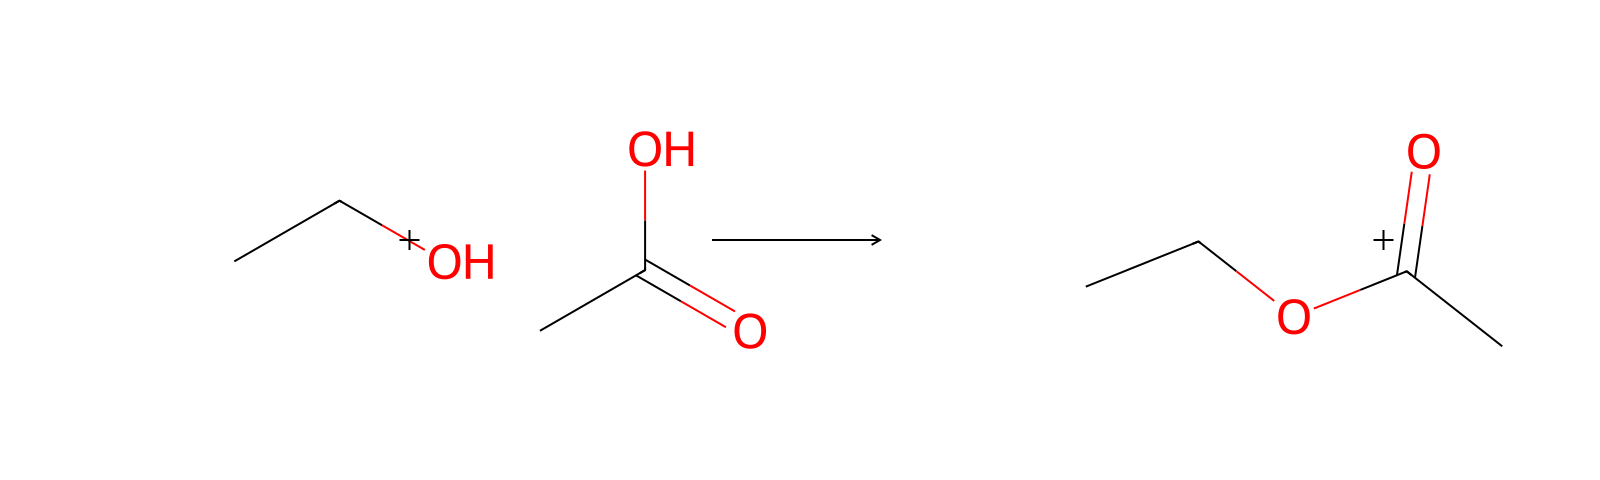
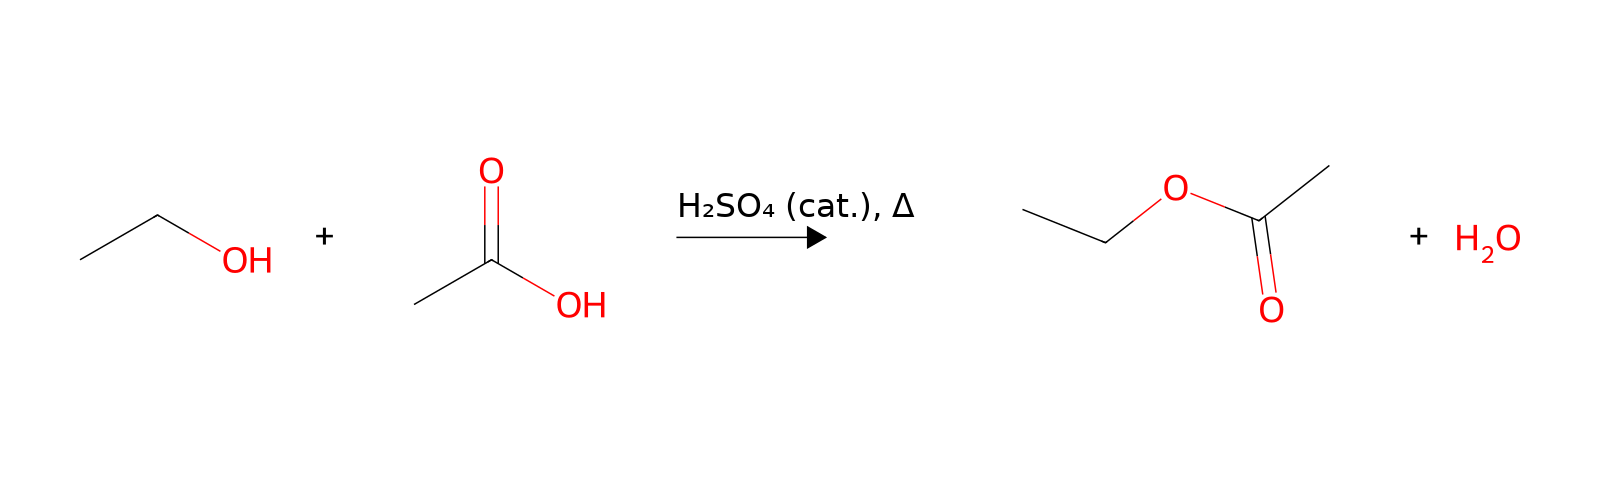
feat: english user-facing labels + refreshed README example images
All user-visible output strings are English now (international audience;
the free-form title/name params stay localizable): spectrum plot titles
and axis labels, and mechanism template names and step labels.

README: regenerated fischer-esterification.png with the fixed reaction
compositor (H2O present, conditions above the arrow) and added a
schematic IR spectrum example from generate_spectrum.

diff --git a/chemdraw_tool/templates/substitution.py b/chemdraw_tool/templates/substitution.py
@@ -5,18 +5,18 @@ from chemdraw_tool.templates import register
 
 SN2_TEMPLATE = MechanismTemplate(
     id="sn2",
-    name="Nucleophile Substitution (SN2)",
+    name="Nucleophilic Substitution (SN2)",
     category="substitution",
     substrate_pattern="[C:1][F,Cl,Br,I:2]",
     nucleophile_pattern="[O,N,S:3]",
     steps=[
         MechanismStep(
-            label="Edukte",
+            label="Reactants",
             molecules=["[OH-:3]", "[CH3:1][Br:2]"],
             arrows=[],
         ),
         MechanismStep(
-            label="Rückseitenangriff (Übergangszustand)",
+            label="Backside attack (transition state)",
             molecules=["[O-:3].[CH3:1].[Br-:2]"],
             arrows=[
                 CurvedArrow(
@@ -34,7 +34,7 @@ SN2_TEMPLATE = MechanismTemplate(
             partial_bonds=[(3, 1), (1, 2)],
         ),
         MechanismStep(
-            label="Produkte",
+            label="Products",
             molecules=["[OH:3][CH3:1]", "[Br-:2]"],
             arrows=[],
         ),
@@ -43,18 +43,18 @@ SN2_TEMPLATE = MechanismTemplate(
 
 SN1_TEMPLATE = MechanismTemplate(
     id="sn1",
-    name="Nucleophile Substitution (SN1)",
+    name="Nucleophilic Substitution (SN1)",
     category="substitution",
     substrate_pattern="[CX4:1]([#6])([#6])[F,Cl,Br,I:2]",
     nucleophile_pattern="[O,N,S:3]",
     steps=[
         MechanismStep(
-            label="Edukte",
+            label="Reactants",
             molecules=["[C:1]([CH3])([CH3])[Br:2]", "[OH2:3]"],
             arrows=[],
         ),
         MechanismStep(
-            label="Abgangsgruppe tritt aus",
+            label="Leaving group departs",
             molecules=["[C:1]([CH3])([CH3])[Br:2]"],
             arrows=[
                 CurvedArrow(
@@ -65,12 +65,12 @@ SN1_TEMPLATE = MechanismTemplate(
             ],
         ),
         MechanismStep(
-            label="Carbokation (Intermediat)",
+            label="Carbocation (intermediate)",
             molecules=["[C+:1]([CH3])([CH3])", "[Br-:2]"],
             arrows=[],
         ),
         MechanismStep(
-            label="Nucleophiler Angriff",
+            label="Nucleophilic attack",
             molecules=["[C+:1]([CH3])([CH3])", "[OH2:3]"],
             arrows=[
                 CurvedArrow(
@@ -81,7 +81,7 @@ SN1_TEMPLATE = MechanismTemplate(
             ],
         ),
         MechanismStep(
-            label="Produkt (nach Deprotonierung)",
+            label="Product (after deprotonation)",
             molecules=["[C:1]([CH3])([CH3])[OH:3]", "[Br-:2]"],
             arrows=[],
         ),

diff --git a/chemdraw_tool/spectrum.py b/chemdraw_tool/spectrum.py
@@ -44,46 +44,48 @@ class SpectrumConfig:
     default_width: float
 
 
+# Englische Default-Beschriftung (internationales Tool); der freie
+# title-Parameter der Tools bleibt lokalisierbar.
 SPECTRUM_TYPES: dict[str, SpectrumConfig] = {
     "ir": SpectrumConfig(
-        "IR-Spektrum", "Wellenzahl [cm⁻¹]", "Transmission [%]",
+        "IR spectrum", "Wavenumber [cm⁻¹]", "Transmission [%]",
         (400, 4000), True, "transmission", "lorentz", 30,
     ),
     "nir": SpectrumConfig(
-        "NIR-Spektrum", "Wellenzahl [cm⁻¹]", "Absorption",
+        "NIR spectrum", "Wavenumber [cm⁻¹]", "Absorbance",
         (4000, 10000), True, "absorption", "gauss", 150,
     ),
     "raman": SpectrumConfig(
-        "Raman-Spektrum", "Raman-Verschiebung [cm⁻¹]", "Intensität",
+        "Raman spectrum", "Raman shift [cm⁻¹]", "Intensity",
         (200, 3600), False, "absorption", "lorentz", 20,
     ),
     "uv_vis": SpectrumConfig(
-        "UV/Vis-Spektrum", "Wellenlänge λ [nm]", "Absorption",
+        "UV/Vis spectrum", "Wavelength λ [nm]", "Absorbance",
         (200, 800), False, "absorption", "gauss", 20,
     ),
     "fluorescence": SpectrumConfig(
-        "Fluoreszenzspektrum", "Wellenlänge λ [nm]", "Relative Intensität",
+        "Fluorescence spectrum", "Wavelength λ [nm]", "Relative intensity",
         (300, 800), False, "absorption", "gauss", 25,
     ),
     "ord": SpectrumConfig(
-        "ORD-Spektrum", "Wellenlänge λ [nm]", "Spezifische Drehung [α]",
+        "ORD spectrum", "Wavelength λ [nm]", "Specific rotation [α]",
         (200, 600), False, "cotton", "gauss", 25,
     ),
     "cd": SpectrumConfig(
-        "CD-Spektrum", "Wellenlänge λ [nm]", "Δε",
+        "CD spectrum", "Wavelength λ [nm]", "Δε",
         (200, 600), False, "signed", "gauss", 20,
     ),
     "nmr_1h": SpectrumConfig(
         # Bis 12 ppm, damit COOH/CHO-Signale nicht an der Achsenkante kleben.
-        "¹H-NMR-Spektrum", "δ [ppm]", "Intensität",
+        "¹H NMR spectrum", "δ [ppm]", "Intensity",
         (0, 12), True, "absorption", "lorentz", 0.03,
     ),
     "nmr_13c": SpectrumConfig(
-        "¹³C-NMR-Spektrum", "δ [ppm]", "Intensität",
+        "¹³C NMR spectrum", "δ [ppm]", "Intensity",
         (0, 220), True, "absorption", "lorentz", 0.5,
     ),
     "ms": SpectrumConfig(
-        "Massenspektrum", "m/z", "Relative Intensität [%]",
+        "Mass spectrum", "m/z", "Relative intensity [%]",
         (0, 0), False, "bars", "", 0,
     ),
 }

diff --git a/chemdraw_tool/templates/ester.py b/chemdraw_tool/templates/ester.py
@@ -5,18 +5,18 @@ from chemdraw_tool.templates import register
 
 FISCHER_ESTER_TEMPLATE = MechanismTemplate(
     id="fischer_ester",
-    name="Fischer-Veresterung",
+    name="Fischer esterification",
     category="ester",
     substrate_pattern="[CX3:1](=[OX1:2])[OX2H1:3]",
     nucleophile_pattern="[OX2H1:4][#6]",
     steps=[
         MechanismStep(
-            label="Edukte",
+            label="Reactants",
             molecules=["[CH3:5][C:1](=[O:2])[OH:3]", "[OH:4][CH3:6]", "[H+]"],
             arrows=[],
         ),
         MechanismStep(
-            label="Protonierung der Carbonylgruppe",
+            label="Protonation of the carbonyl group",
             molecules=["[CH3:5][C:1](=[O:2])[OH:3]", "[H+:7]"],
             arrows=[
                 CurvedArrow(
@@ -27,7 +27,7 @@ FISCHER_ESTER_TEMPLATE = MechanismTemplate(
             ],
         ),
         MechanismStep(
-            label="Nucleophiler Angriff des Alkohols",
+            label="Nucleophilic attack of the alcohol",
             molecules=["[CH3:5][C+:1]([OH:2])([OH:3])", "[OH:4][CH3:6]"],
             arrows=[
                 CurvedArrow(
@@ -38,12 +38,12 @@ FISCHER_ESTER_TEMPLATE = MechanismTemplate(
             ],
         ),
         MechanismStep(
-            label="Tetraedrisches Intermediat",
+            label="Tetrahedral intermediate",
             molecules=["[CH3:5][C:1]([OH:2])([OH:3])([O:4][CH3:6])"],
             arrows=[],
         ),
         MechanismStep(
-            label="Wasserabspaltung",
+            label="Loss of water",
             molecules=["[CH3:5][C:1]([OH:2])([OH:3])([O:4][CH3:6])"],
             arrows=[
                 CurvedArrow(
@@ -54,7 +54,7 @@ FISCHER_ESTER_TEMPLATE = MechanismTemplate(
             ],
         ),
         MechanismStep(
-            label="Produkte",
+            label="Products",
             molecules=["[CH3:5][C:1](=[O:2])[O:4][CH3:6]", "[OH2:3]"],
             arrows=[],
         ),

diff --git a/tests/test_mechanism.py b/tests/test_mechanism.py
@@ -159,3 +159,23 @@ def test_validate_substrates_invalid_nucleophile_pattern_raises():
     )
     with pytest.raises(ValueError, match="SMARTS"):
         validate_substrates(bad, ["CCBr"])
+
+
+def test_template_labels_are_english():
+    """Sichtbare UI-Strings (Step-Labels, Template-Namen) sind englisch —
+    internationales Tool; exakt geprüft am SN2, Marker-Check für den Rest."""
+    from chemdraw_tool.templates import get_template, list_templates
+
+    sn2 = get_template("sn2")
+    assert sn2.name == "Nucleophilic Substitution (SN2)"
+    assert [s.label for s in sn2.steps] == [
+        "Reactants",
+        "Backside attack (transition state)",
+        "Products",
+    ]
+    german_markers = ("Edukte", "Produkt", "Angriff", "Veresterung", "ierung")
+    for name in list_templates():
+        t = get_template(name)
+        visible = t.name + " " + " ".join(s.label for s in t.steps)
+        for marker in german_markers:
+            assert marker not in visible, f"{name}: deutscher Marker {marker!r}"

diff --git a/tests/test_spectrum.py b/tests/test_spectrum.py
@@ -174,9 +174,11 @@ def _typical_position(spectrum_type: str) -> float:
     }[spectrum_type]
 
 
-def test_svg_contains_german_axis_labels_and_title():
+def test_svg_contains_english_axis_labels_and_title():
+    """Englische Default-Labels (internationales Tool); der freie title-Param
+    bleibt lokalisierbar."""
     svg = render_spectrum_svg("ir", [{"position": 1700, "intensity": 1}], title="Aspirin")
-    assert "Wellenzahl" in svg
+    assert "Wavenumber" in svg
     assert "Transmission" in svg
     assert "Aspirin" in svg
 

diff --git a/tests/test_server_spectrum.py b/tests/test_server_spectrum.py
@@ -63,4 +63,4 @@ def test_filename_uses_title_slug(tmp_path):
 
 def test_filename_falls_back_to_type(tmp_path):
     payload = generate_spectrum("cd", [{"position": 280, "intensity": -1}])
-    assert Path(payload.files["png"]).name == "cd-spektrum.png"
+    assert Path(payload.files["png"]).name == "cd-spectrum.png"

diff --git a/README.md b/README.md
@@ -23,7 +23,12 @@ with an interactive preview panel rendered inline.
 
 *"Show the Fischer esterification of ethanol with acetic acid"* — `generate_reaction`:
 
-<p align="center"><img src="assets/fischer-esterification.png" alt="Fischer esterification reaction scheme" width="640"></p>
+<p align="center"><img src="assets/fischer-esterification.png" alt="Fischer esterification reaction scheme with conditions above the arrow" width="640"></p>
+
+*"Sketch the IR spectrum of ethyl acetate"* — `generate_spectrum` (draws the
+peaks it is given, with per-type axis conventions):
+
+<p align="center"><img src="assets/ethyl-acetate-ir.png" alt="Schematic IR spectrum of ethyl acetate with labeled bands" width="560"></p>
 
 ## Features
 
